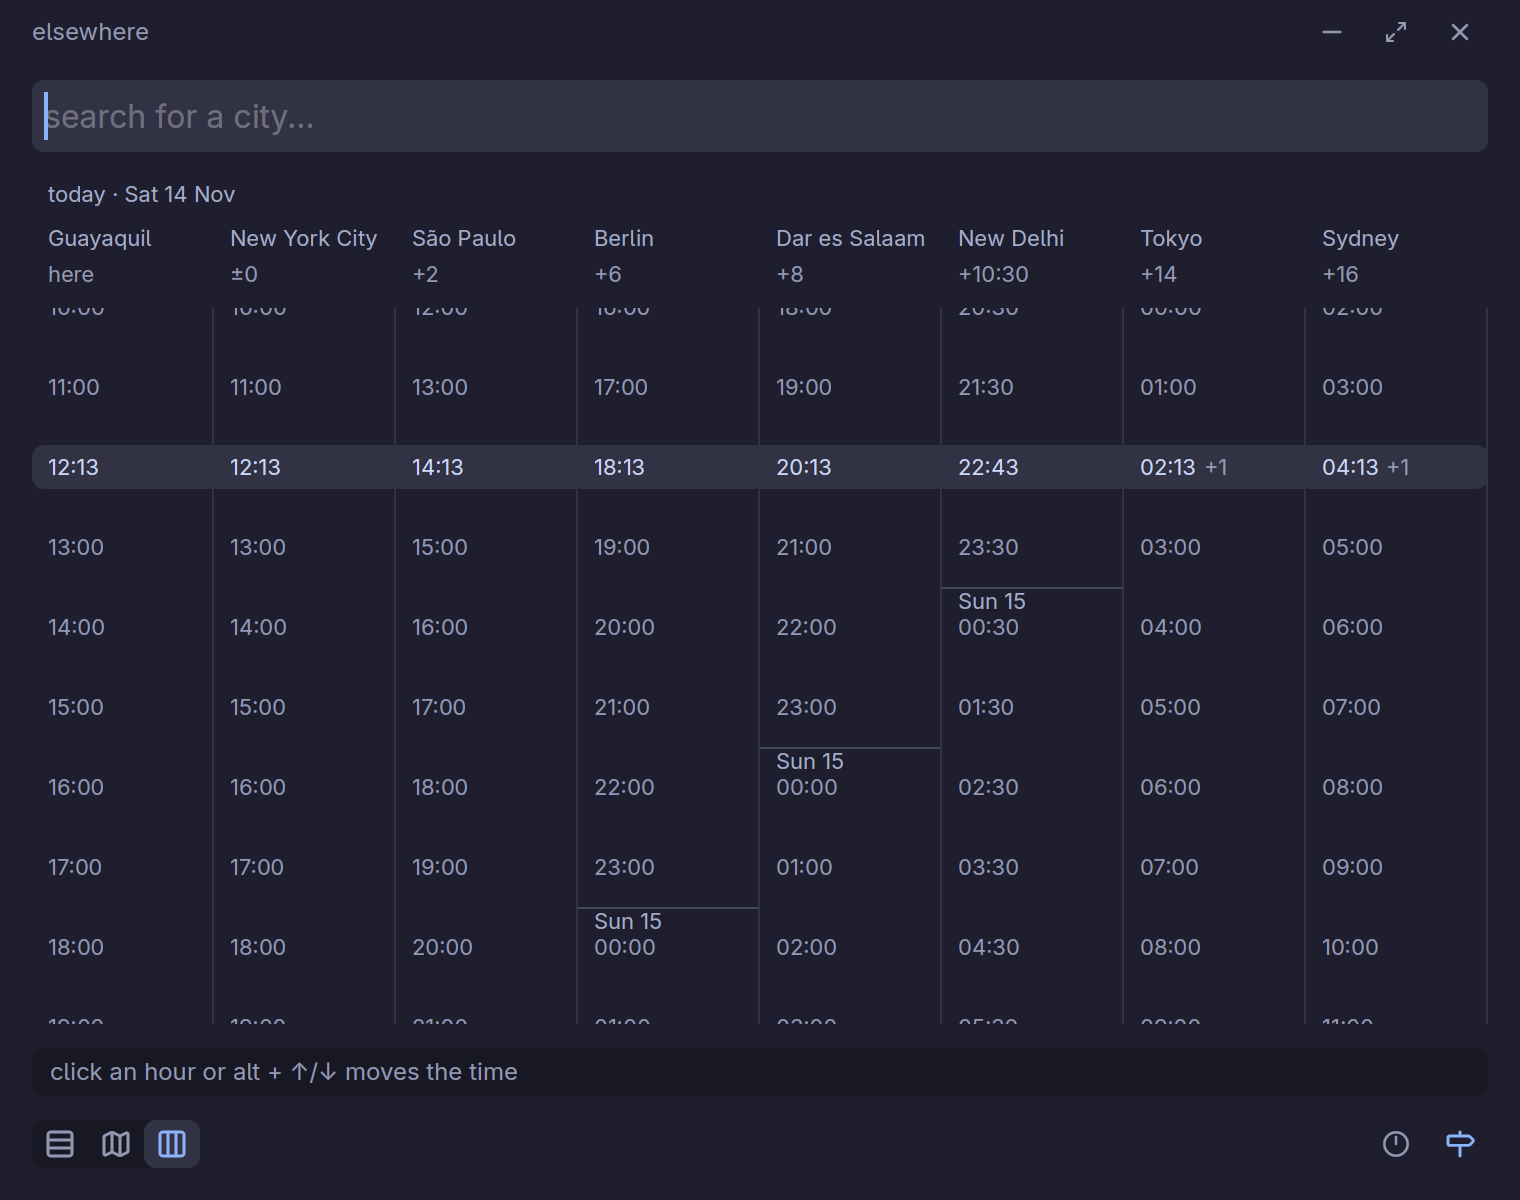
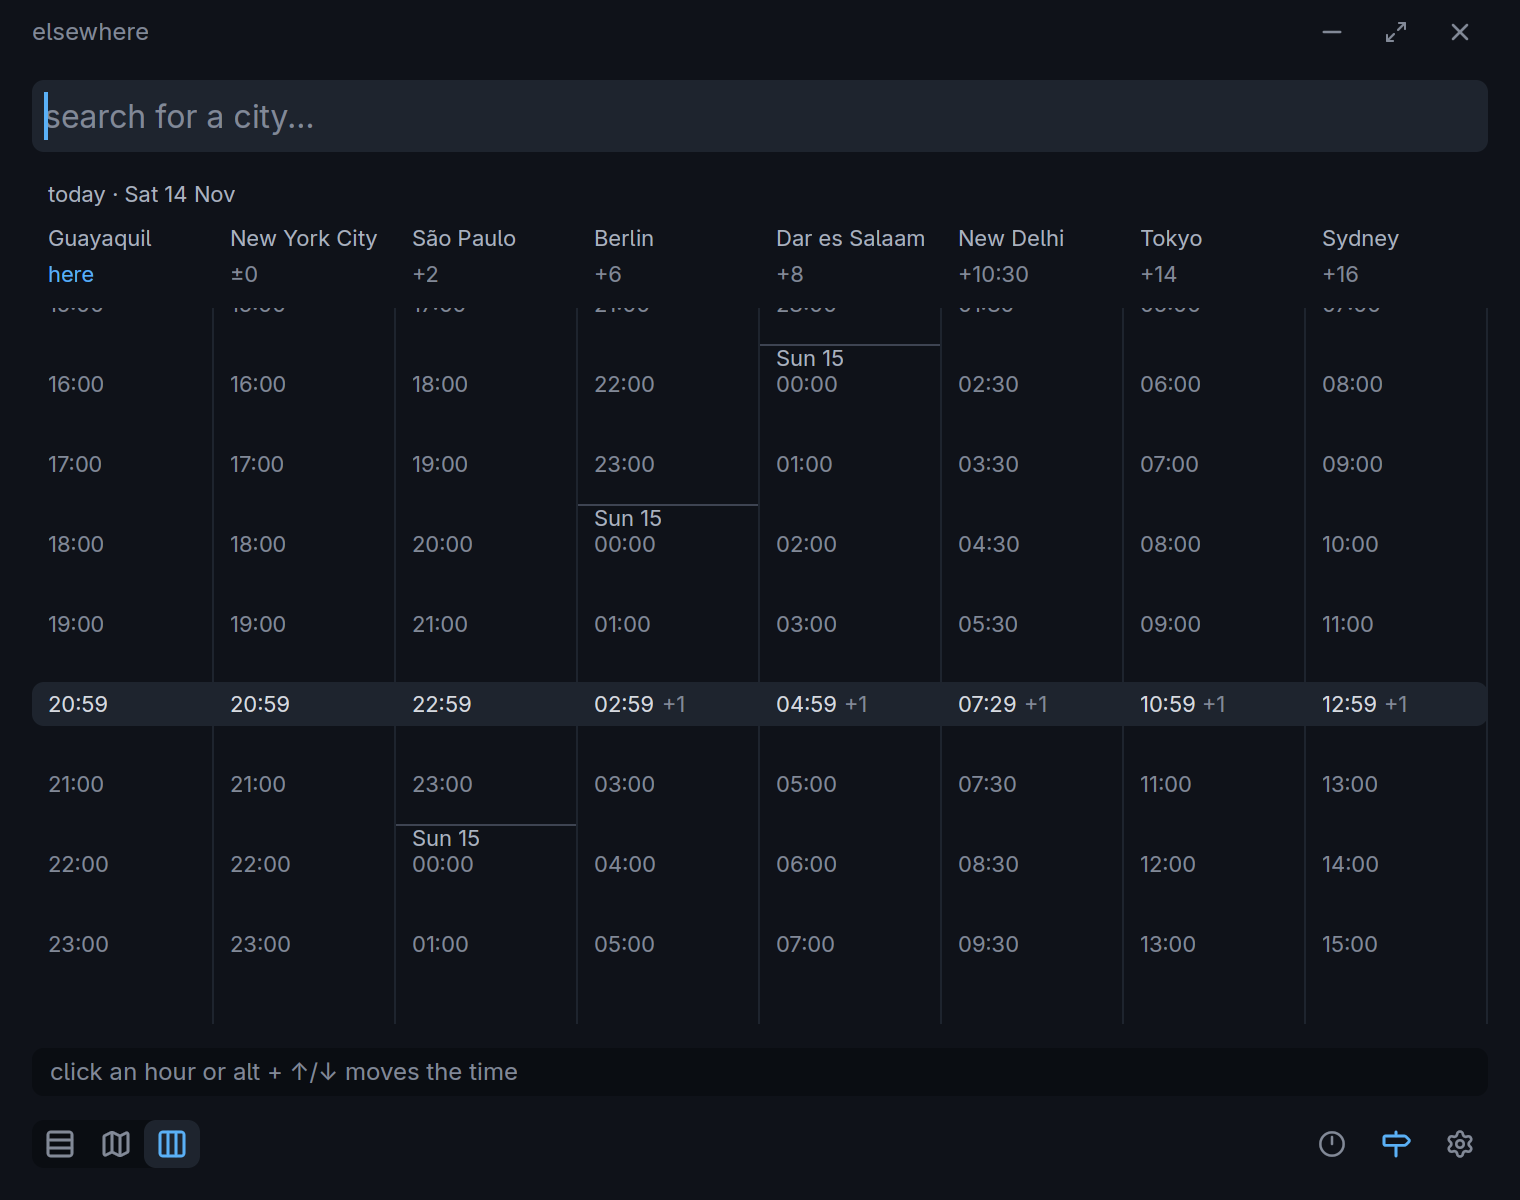
docs: screenshots in the new dark theme
List as tall as the map, grid the map's size; readme widths match heights.

diff --git a/readme.md b/readme.md
@@ -2,8 +2,8 @@
 Check the time in other places.
 
 <p>
-  <img src="docs/map.png" alt="The map view, with cities pinned and the night side shaded" width="600">
-  <img src="docs/list.png" alt="The list view" width="220">
+  <img src="docs/map.png" alt="The map view, with cities pinned and the night side shaded" width="536">
+  <img src="docs/list.png" alt="The list view" width="282">
 </p>
 
 ## Install
